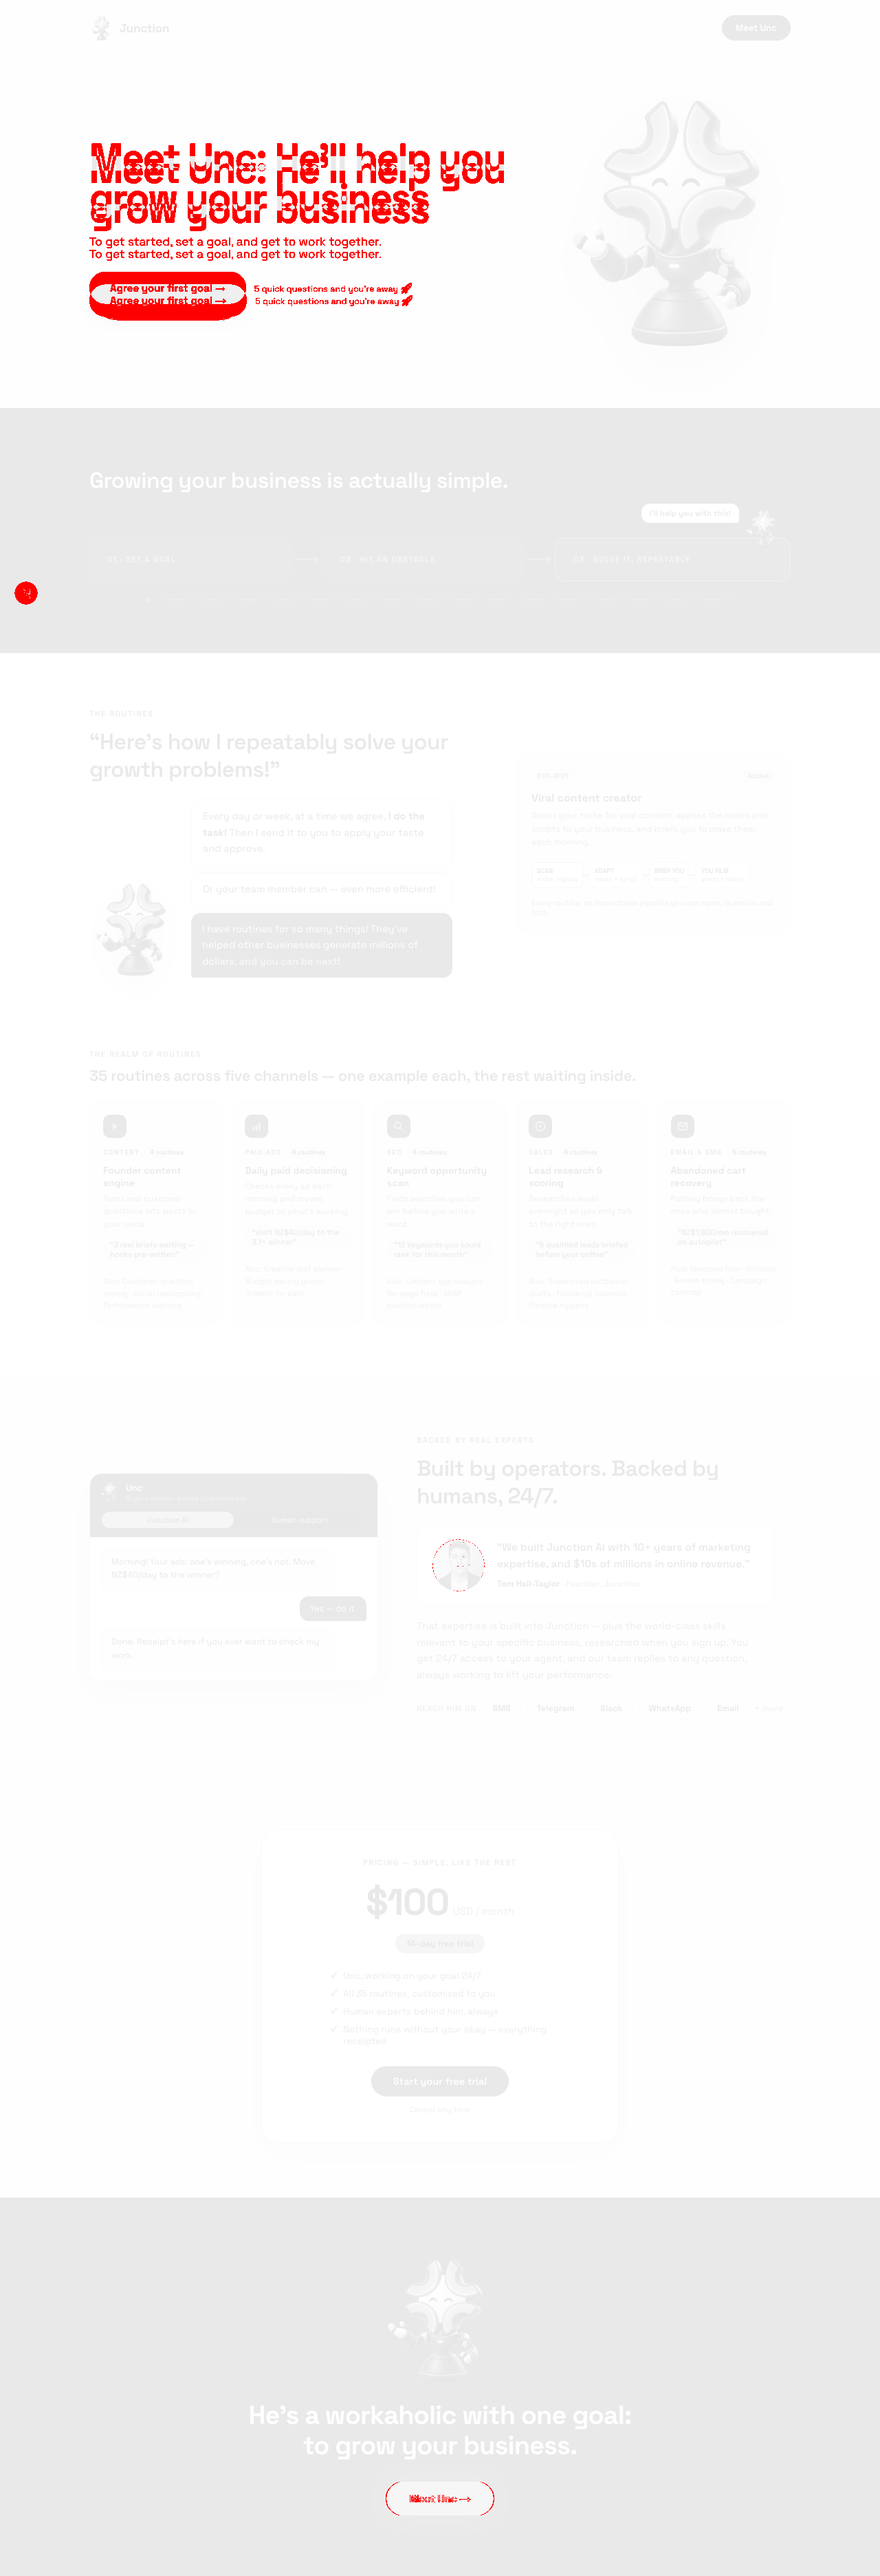
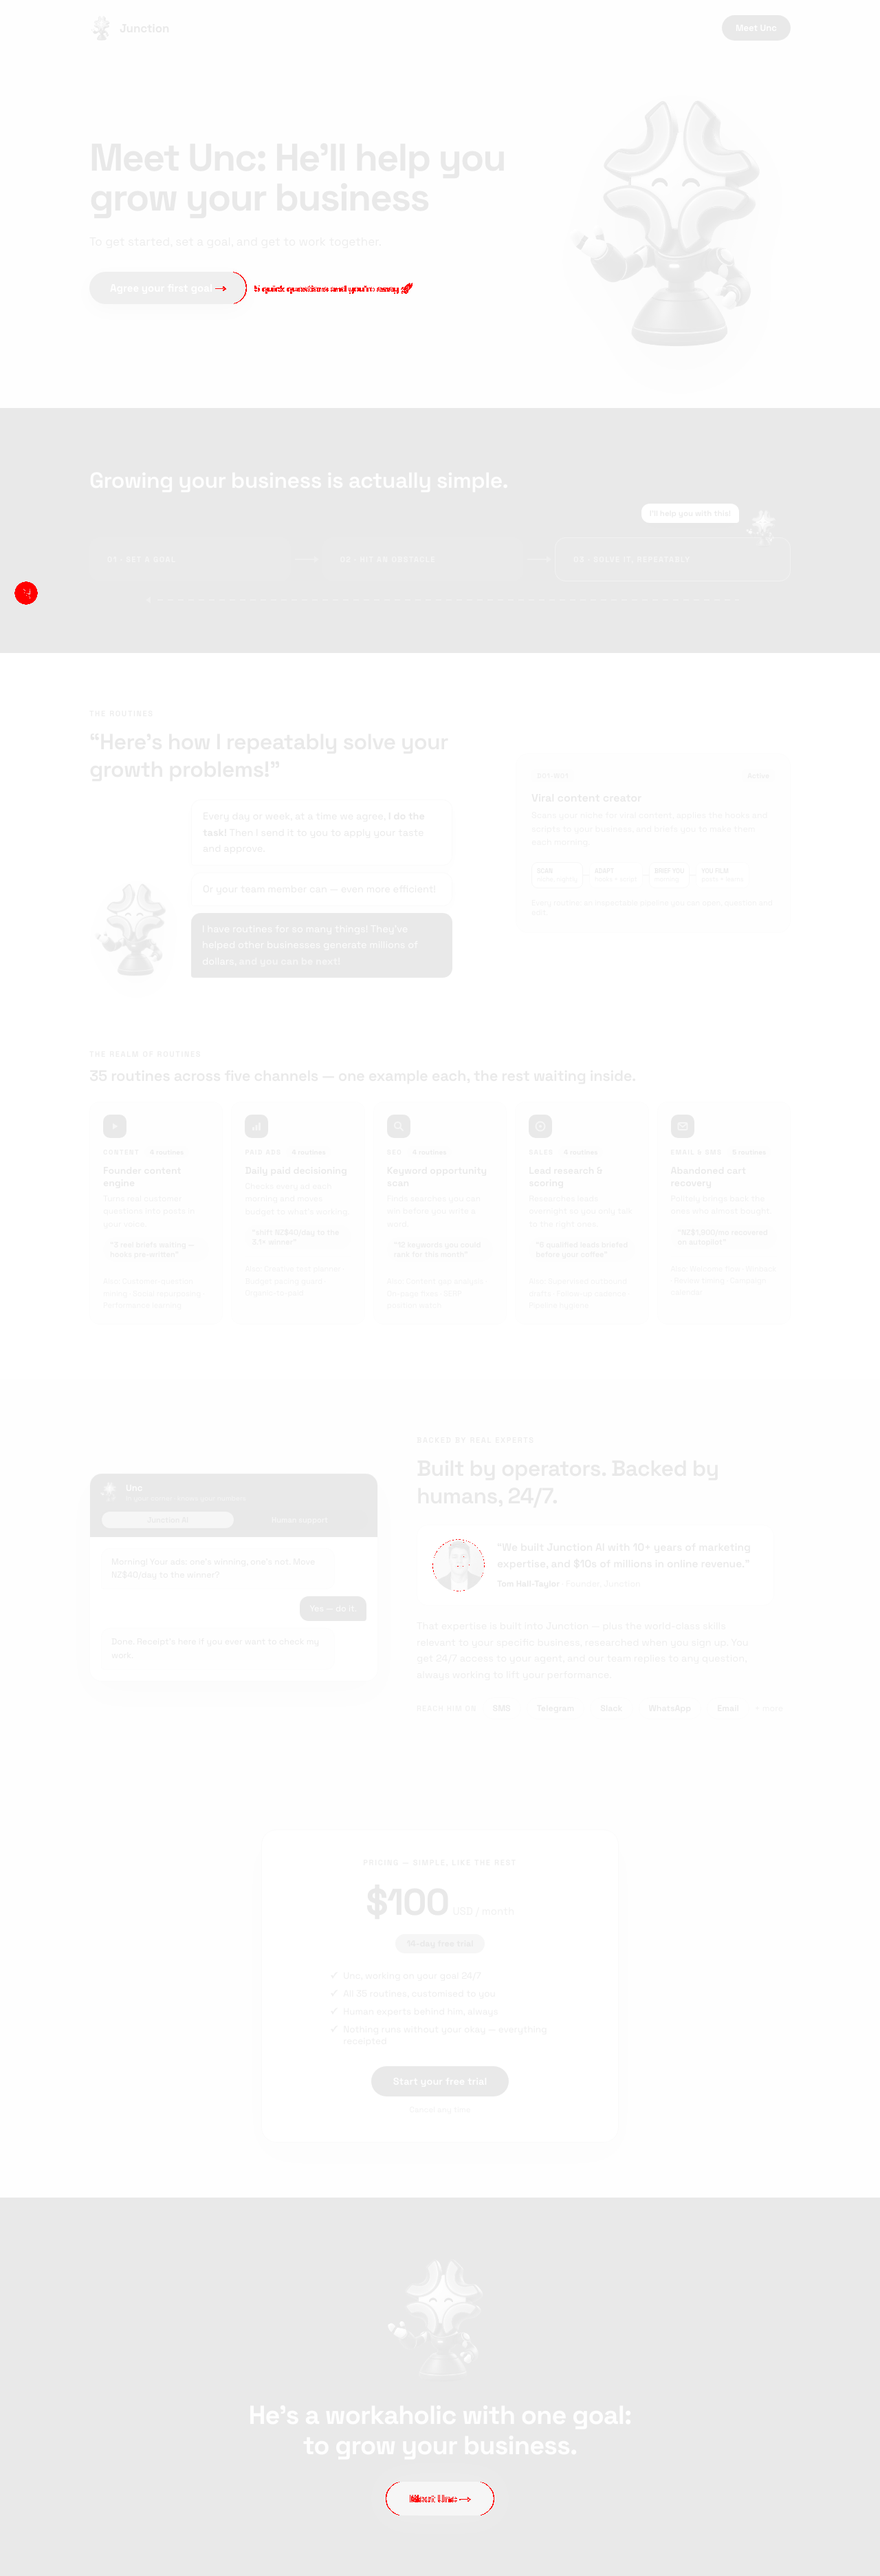
Parity report refresh: landing 0.94% → 0.05% after hero spacer fix

Changed region(s): [[0.0938, 0.0312, 0.5625, 0.125]]

diff --git a/design-reference/parity/REPORT.md b/design-reference/parity/REPORT.md
@@ -1,6 +1,6 @@
 # Visual parity — React port vs original prototypes
 
-*Generated 2026-09-02T03:37:29.402Z by `npx playwright test tests/e2e/parity.spec.ts` (scripts/parity/capture.ts).*
+*Generated 2026-09-02T03:39:15.627Z by `npx playwright test tests/e2e/parity.spec.ts` (scripts/parity/capture.ts).*
 
 **Method.** Both sources are driven to the same state with the same clicks (Skip → nav items → role card → Tutorial), every CSS animation/transition is frozen at its 0% frame (jfloat, jpulse, toggle knobs, phase dots), web fonts and images are awaited, then a full-page screenshot is taken at a 1280×900 viewport (DPR 1), clipped to the 1280px viewport width. Pixels are compared with a pixelmatch-style YIQ colour delta (threshold 0.1) over the union canvas; a page that is taller in one source counts the extra rows as differences (`diff %`), while `overlap %` restricts the comparison to the shared region so layout drift is visible separately from height drift. `<screen>-diff.png` paints differing pixels red (orange = present in only one source). Visible copy (`document.body.innerText`) is also diffed line by line with quotes/whitespace normalised (`copy Δ`).
 
@@ -8,7 +8,7 @@
 
 | Screen | id | proto / port size | diff % | overlap % | copy Δ | verdict | notes |
 |---|---|---|---|---|---|---|---|
-| Landing page | `landing` | 1280×3744 / 1280×3744 | **0.94%** | 0.94% | none | ✅ pass |  |
+| Landing page | `landing` | 1280×3744 / 1280×3744 | **0.05%** | 0.05% | none | ✅ pass |  |
 | Onboarding · step 0 (welcome) | `onboarding-0` | 1280×900 / 1280×900 | **0.14%** | 0.14% | none | ✅ pass |  |
 | Control centre · Home (demo data) | `home` | 1280×2474 / 1280×2474 | **0.24%** | 0.24% | none | ✅ pass |  |
 | Strategy | `strategy` | 1280×1032 / 1280×1032 | **0.09%** | 0.09% | none | ✅ pass |  |
